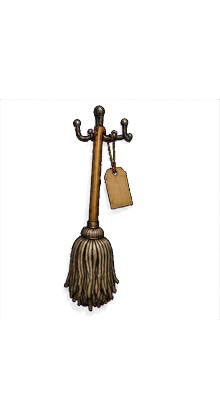
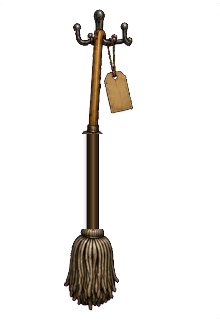
Раунд 9 (без релиза, 2.0.5-pre): 6 замечаний автора по галерее
- Коробка zoom_attic: новый авторский арт box_attic (ракурс сверху-сбоку),
  cutouts/st_box_attic.png, edge-bleed; вайд не тронут
- Швабра перенесена в zoom_closet на крючки (сценарий это предполагал:
  doc_mop_tag уже at:zoom_closet); черенок удлинён x2 (gen_r9_cutouts.py)
- Сачок st_net_on_top +30px вверх (свес на крышке шкафа)
- Магнитная указка уменьшена (1.35) и ПОЛНОСТЬЮ внутри KPI-щита (ночь+день)
- Пар кофемашины сдвинут влево, база над чашкой
- pos_day LED (считыватель/сигнализация) выправлены по дневному фону
- Галерея перегенерена целиком (49 кадров + 5 листов); все гейты DoD PASS

Changed region(s): [[0.2727, 0.0311, 0.6, 0.9627]]

diff --git a/tools/gen_scene.py b/tools/gen_scene.py
@@ -65,9 +65,9 @@ A_hotspots = [
        name="Кодовая тумба", cursor="zoom"),
     HS("hs_kpi_board", [1758, 278, 150, 200], name="KPI-доска", look=True,
        rect_day=[1785, 150, 120, 320]),
-    HS("hs_pointer", [1802, 348, 78, 68], node="take_pointer", name="Магнитная указка",
+    HS("hs_pointer", [1795, 266, 68, 68], node="take_pointer", name="Магнитная указка",
        hide_on=["done:take_pointer"],
-       rect_day=[1814, 274, 78, 68]),
+       rect_day=[1808, 256, 68, 68]),
     # --- правая зона: рассинхрон день/ночь, всюду rect_day ---
     HS("hs_exit_sign", [1504, 130, 100, 58], name="Табличка EXIT", look=True,
        rect_day=[1540, 126, 86, 62]),
@@ -106,11 +106,11 @@ A_cutouts = [
     CO("cutouts/st_ruler_on_desk.png", [1150, 702], 1.68, z=20,
        hide_on=["done:take_ruler"]),
     # указка (диагональная) лежит ВНУТРИ силуэта KPI-доски (ночь/день)
-    # (раунд 7) магнитная указка ВПЛОТНУЮ внутри силуэта KPI-доски
-    # (ночь щит x1758..1908, день x1785..1905) — прилегает к поверхности
-    CO("cutouts/st_pointer_on_board.png", [1716, 336], 1.5, z=20,
+    # (раунд 9) уменьшена (1.5->1.35) и отцентрована в белом поле щита с запасом
+    # от кромок: ночь щит x1755..1898 y150..475, день x1778..1905 y58..510
+    CO("cutouts/st_pointer_on_board.png", [1721, 260], 1.35, z=20,
        hide_on=["done:take_pointer"],
-       pos_day=[1728, 262]),
+       pos_day=[1737, 248]),
     CO("cutouts/st_wheel_wall.png", [1002, 206], 0.52, z=20,
        hide_on=["done:take_wheel"]),
     # открытая решётка накрывает закрытую грилю офиса (x1282..1405 y138..203)
@@ -128,16 +128,18 @@ A_cutouts = [
     CO("cutouts/st_garland_on.png", [360, 150], 1.0, z=30,
        show_on=["garland_on"], glow=True,
        img_day="cutouts/st_garland_on_day.png"),
+    # (раунд 9) pos_day LED выправлены по дневному фону: индикатор считывателя
+    # ~(1663,365), плата сигнализации на синей двери x1735..1770 y378..425
     CO("cutouts/st_led_alarm_on.png", [1673, 382], 0.34, z=25,
-       hide_on=["alarm_off"], pos_day=[1731, 328]),
+       hide_on=["alarm_off"], pos_day=[1739, 378]),
     CO("cutouts/st_led_alarm_off.png", [1673, 382], 0.34, z=25,
-       show_on=["alarm_off"], pos_day=[1731, 328]),
+       show_on=["alarm_off"], pos_day=[1739, 378]),
     CO("cutouts/st_led_reader_off.png", [1568, 325], 0.42, z=25,
-       hide_on=["power_on"], pos_day=[1648, 330]),
+       hide_on=["power_on"], pos_day=[1652, 349]),
     CO("cutouts/st_led_reader_red.png", [1568, 325], 0.42, z=25,
-       show_on=["power_on"], hide_on=["reader_green"], pos_day=[1648, 330]),
+       show_on=["power_on"], hide_on=["reader_green"], pos_day=[1652, 349]),
     CO("cutouts/st_led_reader_green.png", [1568, 325], 0.42, z=25,
-       show_on=["reader_green"], pos_day=[1648, 330]),
+       show_on=["reader_green"], pos_day=[1652, 349]),
     # открытая дверь щитовой (перспективный кадр автора, ночь): дверь приоткрыта,
     # из щели льётся тёплый свет. Вырезана по контуру двери (край мягкий ~2px,
     # угол настольной лампы вымаскирован), гамма-подъём теней 0.9 под дневной фон.
@@ -156,7 +158,8 @@ A_cutouts = [
     # одному кадру, не суммирует); посажен вплотную над кружкой
     CO("cutouts/st_fish_a.png", [952, 412], 0.36, z=18, idle="fish_wide",
        frames=["cutouts/st_fish_a.png", "cutouts/st_fish_b.png"]),
-    CO("cutouts/st_steam_a.png", [1199, 380], 0.42, z=22, idle="steam",
+    # (раунд 9) пар сдвинут влево — база над чашкой (ночь x~1216 / день x~1233)
+    CO("cutouts/st_steam_a.png", [1186, 378], 0.42, z=22, idle="steam",
        frames=["cutouts/st_steam_a.png", "cutouts/st_steam_b.png",
                "cutouts/st_steam_c.png"], show_on=["sockets_on"]),
 ]
@@ -188,13 +191,12 @@ B_hotspots = [
        name="Коробка (ещё раз)", show_on=["item:relic_fez"], hide_on=["item:crown"]),
     HS("hs_closet", [1310, 190, 285, 690], goto="zoom_closet", name="Шкаф уборщицы",
        cursor="zoom"),
-    HS("hs_net_top", [1398, 138, 122, 120], node="see_net", name="Верх шкафа",
+    HS("hs_net_top", [1398, 108, 122, 120], node="see_net", name="Верх шкафа",
        hide_on=["net_down"]),
     HS("hs_net_floor", [1290, 885, 240, 185], node="take_net", name="Сачок",
        show_on=["net_down"], hide_on=["done:take_net"]),
     HS("hs_vent_util", [1385, 50, 180, 145], name="Вентрешётка", look=True),
-    HS("hs_mop", [1555, 332, 72, 180], node="take_mop", name="Швабра",
-       hide_on=["done:take_mop"], doc_rmb="doc_mop_tag"),
+    # (раунд 9) швабра ПЕРЕНЕСЕНА в zoom_closet (крючки внутри шкафа уборщицы)
     HS("hs_boiler", [1655, 80, 195, 440], node="h_boiler", name="Бойлер"),
     HS("hs_sink", [1600, 590, 255, 175], name="Раковина", look=True),
     HS("hs_sink_valve", [1700, 760, 120, 130], node="h_sink_valve",
@@ -203,8 +205,8 @@ B_hotspots = [
 ]
 B_cutouts = [
     # сачок лежит на КРЫШКЕ шкафа со свесом за передний край
-    # (раунд 8: поднят на ~17px — не «прилипает» к верхнему краю, лежит на крышке)
-    CO("cutouts/st_net_on_top.png", [1360, 133], 0.80, z=20,
+    # (раунд 8: +17px; раунд 9: ещё +30px — низ со свесом на крышке)
+    CO("cutouts/st_net_on_top.png", [1360, 103], 0.80, z=20,
        hide_on=["net_down"]),
     CO("cutouts/st_net_on_floor.png", [1296, 892], 0.86, z=20,
        show_on=["net_down"], hide_on=["done:take_net"]),
@@ -212,9 +214,7 @@ B_cutouts = [
     # (раунд 7) цветокоррекция; (раунд 8) ×1.58 + тёмный бэкинг под грилю
     CO("cutouts/st_vent_open_util.png", [1327, 24], 1.58, z=20,
        show_on=["vents_open"], img_day="cutouts/st_vent_open_util_day.png"),
-    # швабра на крюке-вешалке ПЕРЕНЕСЕНА на деревянную дверцу шкафа уборщицы
-    # (раунд 8: раньше висела в зазоре шкаф/бойлер — на тёмном фоне «парила»)
-    CO("cutouts/st_mop_on_hook.png", [1512, 258], 0.78, z=20, hide_on=["done:take_mop"]),
+    # (раунд 9) катаут швабры st_mop_on_hook ПЕРЕНЕСЁН в zoom_closet (крючки)
     # банка литола СТОИТ на полке, тень-эллипс под ней
     # (раунд 8: опущена ещё на 12px — низ строго на полке ~y527)
     CO("cutouts/st_grease_on_shelf.png", [1134, 452], 0.82, z=20,
@@ -421,25 +421,33 @@ zooms["zoom_workbench"] = {"room": "B", "hotspots": [
 ]}
 
 zooms["zoom_attic"] = {"room": "B", "hotspots": [
-    HS("hs_z_box_shelf", [380, 300, 560, 260], node="box_down",
+    HS("hs_z_box_shelf", [400, 235, 560, 360], node="box_down",
        name="Коробка «НГ-2019»", hide_on=["box_down"]),
     HS("hs_z_tinsel", [890, 400, 200, 640], name="Мишура", look=True),
     HS("hs_z_dust", [300, 320, 700, 200], name="Пыльный след", look=True,
        show_on=["box_down"]),
 ], "cutouts": [
-    # (раунд 7) коробка крупнее и посажена на пыльный след полки (промер зума)
-    CO("cutouts/st_box_on_floor.png", [402, 302], 1.3, z=20,
+    # (раунд 9) новый авторский арт коробки «НГ-2019» с мишурой (ракурс
+    # сверху-сбоку — под антресоль). Полка: задний край y~400, передний ~600
+    CO("cutouts/st_box_attic.png", [378, 238], 0.62, z=20,
        hide_on=["box_down"]),
 ]}
 
 zooms["zoom_closet"] = {"room": "B", "hotspots": [
     HS("hs_z_medkit", [1128, 88, 186, 388], node="take_validol", name="Аптечка",
        hide_on=["done:take_validol"]),
+    # (раунд 9) швабра висит на крючках ВНУТРИ шкафа — зона взятия здесь
+    HS("hs_mop", [845, 120, 140, 410], node="take_mop", name="Швабра",
+       hide_on=["done:take_mop"], doc_rmb="doc_mop_tag"),
     HS("hs_z_hooks", [640, 105, 380, 140], name="Крючки", look=True),
     HS("hs_z_rag", [520, 385, 360, 140], name="Тряпка", look=True),
     HS("hs_z_bottles", [780, 530, 240, 480], name="Бутыли", look=True),
     HS("hs_z_bucket2", [510, 550, 300, 460], name="Ведро", look=True),
-], "cutouts": []}
+], "cutouts": [
+    # (раунд 9) швабра (черенок удлинён ~x2, gen_r9_cutouts) на среднем крючке
+    CO("cutouts/st_mop_on_hook.png", [763, 50], 1.5, z=20,
+       hide_on=["done:take_mop"]),
+]}
 
 def _hs_area(h):
     r = h["rect"]; return r[2] * r[3]

diff --git a/tools/gen_r9_cutouts.py b/tools/gen_r9_cutouts.py
@@ -1,0 +1,82 @@
+#!/usr/bin/env python3
+# -*- coding: utf-8 -*-
+"""Раунд 9: катауты из авторского арта.
+1) Коробка «НГ-2019» (антресоль): кроп авторского box_attic по альфе +
+   edge-bleed (заливка цвета в прозрачные соседи, чтобы при масштабировании
+   не тянулся красный мат подложки) -> cutouts/st_box_attic.png.
+2) Швабра: удлинение черенка ~x2 вставкой чистого сегмента черенка между
+   бирко-ручкой и щёткой (щётку и крюк не искажаем) -> cutouts/st_mop_on_hook.png.
+Оригиналы уже в карантине: work/orig_box_attic_v2.png, work/orig_st_mop_on_hook_v0.png.
+"""
+import numpy as np
+from PIL import Image
+import os
+
+CUT = "assets/gfx/cutouts"
+
+def edge_bleed(im, iters=6):
+    """RGB прозрачных пикселей = среднее непрозрачных соседей (итеративно).
+    Убирает цветовую бахрому по краю при билинейном масштабировании."""
+    a = np.array(im).astype(np.float32)
+    rgb = a[:, :, :3]; al = a[:, :, 3]
+    known = al > 8
+    for _ in range(iters):
+        unk = ~known
+        if not unk.any():
+            break
+        # суммируем соседей по 4 сторонам
+        s = np.zeros_like(rgb); c = np.zeros(al.shape, np.float32)
+        for dy, dx in ((1,0),(-1,0),(0,1),(0,-1)):
+            k = np.roll(known, (dy, dx), (0,1))
+            v = np.roll(rgb, (dy, dx), (0,1))
+            m = k & unk
+            s[m] += v[m]; c[m] += 1
+        fill = c > 0
+        rgb[fill] = s[fill] / c[fill][:, None]
+        known = known | fill
+    a[:, :, :3] = rgb
+    return Image.fromarray(a.astype(np.uint8), "RGBA")
+
+def gen_box():
+    im = Image.open("work/orig_box_attic_v2.png").convert("RGBA")
+    a = np.array(im); al = a[:, :, 3]
+    ys, xs = np.where(al > 16)
+    x0, x1, y0, y1 = xs.min(), xs.max(), ys.min(), ys.max()
+    m = 3
+    x0 = max(0, x0-m); y0 = max(0, y0-m)
+    x1 = min(im.width-1, x1+m); y1 = min(im.height-1, y1+m)
+    crop = im.crop((x0, y0, x1+1, y1+1))
+    crop = edge_bleed(crop, iters=6)
+    crop.save(os.path.join(CUT, "st_box_attic.png"))
+    print("st_box_attic.png", crop.size)
+
+def gen_mop():
+    im = Image.open("work/orig_st_mop_on_hook_v0.png").convert("RGBA")
+    W, H = im.size                       # 220x420
+    INSERT = 95                          # удлинение черенка (~x2 видимой ручки)
+    SEAM = 229                           # низ ручки/бирки, верх щётки ~230
+    # экструзия ОДНОЙ чистой строки черенка (y226, ниже бирки) — гладко, без
+    # бандинга (тайлинг многострочного среза размножал вертикальную тень стержня)
+    row = im.crop((0, 226, W, 227))      # 1 строка чистого стержня
+    upper = im.crop((0, 0, W, SEAM+1))   # крюк+ручка+бирка
+    head = im.crop((0, 230, W, H))       # щётка (+пустой низ)
+    new = Image.new("RGBA", (W, H+INSERT), (0,0,0,0))
+    new.paste(upper, (0, 0), upper)
+    end = SEAM+1+INSERT
+    for y in range(SEAM+1, end):
+        new.paste(row, (0, y), row)
+    new.paste(head, (0, end), head)
+    # обрезка пустых вертикальных полей (чтобы pos в сцене был положительным)
+    aa = np.array(new)[:, :, 3]
+    ys, xs = np.where(aa > 8)
+    top = max(0, ys.min()-3); bot = min(new.height, ys.max()+4)
+    new = new.crop((0, top, new.width, bot))
+    new.save(os.path.join(CUT, "st_mop_on_hook.png"))
+    # промер новой геометрии
+    a = np.array(new)[:, :, 3]
+    ys, xs = np.where(a > 16)
+    print("st_mop_on_hook.png", new.size, "content y%d..%d" % (ys.min(), ys.max()))
+
+if __name__ == "__main__":
+    gen_box()
+    gen_mop()

diff --git a/tools/gen_gallery.py b/tools/gen_gallery.py
@@ -181,7 +181,7 @@ shot("dver_schitovoy_noch")
 node("take_pointer"); dismiss()
 to_room("B")
 shot("komnata_B_noch")
-read_hs("hs_mop", "B", "doc_mop_tag", "doc_birka_shvabra", btn=2)
+read_hs("hs_mop", "zoom_closet", "doc_mop_tag", "doc_birka_shvabra", btn=2)  # (р9) швабра в зуме шкафа
 node("see_net"); dismiss()
 node("push_net"); dismiss()
 add(op="assert_flag", f="vents_open")

diff --git a/docs/QA_JOURNAL.md b/docs/QA_JOURNAL.md
@@ -153,3 +153,26 @@ CLUE AUDIT PASS · FUZZ 3×25000 PASS · verify-листы OK · ap_smoke 1536×
 (маджента 18 скринов, WCAG ≥7:1, яркость A 47% / B 13%, силуэты 0 слабых) /
 FUZZ 3×25000 / trace+clue / letterbox-смок 1536×864 — **ВСЕ PASS**.
 Галерея work/gallery/ перегенерена целиком (49 кадров + 5 контактных листов).
+
+
+## Раунд 9 (без релиза — авторская ревизия галереи work/gallery/, 2.0.5-pre)
+Метод: осмотр кадра → промеры numpy (дифф рендер-минус-фон) → правка
+генератора → контрольный рендер. Промеры фонов 1920×1080 = канвас (пиксель
+фона == позиция катаута).
+
+| # | Замечание автора | Статус |
+|---|---|---|
+| 1 | Коробка в zoom_attic — старый арт, неверная перспектива (фронт на top-down полке) | ✔ Новый АВТОРСКИЙ арт box_attic.png (коробка «НГ-2019» с мишурой, ракурс сверху-сбоку — под антресоль). Кроп по альфе + edge-bleed (в прозрачном фоне был красный мат — в игре не виден, но bleed убирает бахрому при масштабе) → cutouts/st_box_attic.png (871×563). Посажена на полку с пыльным следом: pos [378,238] scale 0.62 (полка задний край y~400, передний ~600). hs_z_box_shelf синхронно. Оригинал → work/orig_box_attic_v2.png; исходник из корня монтирования удалён. Вайд B (st_box_on_floor на полу, фронт) НЕ тронут |
+| 2 | Швабра снаружи закрытого шкафа — «я думал по сценарию она в шкафу?» | ✔ **Сценарий ПОДТВЕРДИЛ:** узел take_mop (D6, room B, pickup, needs utility_open) структурно идентичен take_validol, который УЖЕ в zoom_closet; а doc_mop_tag (бирка, ПКМ) с р.4 привязан `at: zoom_closet`. В zoom_closet уже есть z_hooks «Крючки». Перенёс: катаут швабры на СРЕДНИЙ крючок задней стенки шкафа (pos [763,50] scale 1.5, крюк-вешалка катаута совмещён с настенным, щётка над полкой), зона hs_mop → в zoom_closet, с вайда B швабру и зону УБРАЛ. Автонавигация солвера/автоплея по карте site автоматически ведёт take_mop через зум; галерея (показ бирки, кадр 13) поправлена на view=zoom_closet. Гаунтлет PASS |
+| — | Швабра «короткая как пипидастр» | ✔ Черенок удлинён программно ×2 (экструзия одной чистой строки стержня между биркой и щёткой — крюк и щётку не искажает): длина видимой ручки ~90px→~185px (катаут 220×420→220×322 после обрезки полей). Оригинал → work/orig_st_mop_on_hook_v0.png (tools/gen_r9_cutouts.py) |
+| 3 | Сачок (st_net_on_top, B): поднять ещё ~1 см | ✔ pos_y 133→103 (+30px вверх); низ y~215 у кромки крышки шкафа (промер: кромка y~196 ночь=день) — свес ~19px. hs_net_top синхронно (138→108). Ночь+день (B без рассинхрона) |
+| 4 | Магнитная указка вылезает за силуэт KPI-щита | ✔ Промер щита: ночь x1755..1898 y150..475, день x1778..1905 y58..510. Указка (диагональ 40×41 в холсте) была ниже центра — нижний кончик у кромки/лотка. scale 1.5→1.35, отцентрована в белом поле: ночь pos [1721,260] (катаут x1799..1853 y272..328), день pos_day [1737,248] (x1815..1869 y260..316) — ПОЛНОСТЬЮ внутри с запасом ≥35px от кромок. hs_pointer/rect_day синхронно |
+| 5 | Пар кофемашины правее чашки — сдвинуть влево, база над чашкой | ✔ Промер чашки: ночь центр x~1216, день x~1233, верх обода y~445. Пар pos [1199,380]→[1186,378]: плюмаж всех 3 фаз теперь над кружкой (x~1204..1229), не «правее». Ночь=день (чашка почти на месте) |
+| 6 | LED-огоньки (reader off/red/green, alarm on/off) днём уплыли | ✔ Промер дневного фона: индикатор считывателя (1663,365), плата сигнализации на синей двери x1735..1770 y378..425. Дрейф: reader-LED был на ~19px выше индикатора, alarm-LED на ~50px выше платы (парил на пустой двери). Выправлены pos_day: reader [1648,330]→[1652,349] (центр на индикаторе 1662,363); alarm [1731,328]→[1739,378] (на плите, 1748,388). Ночь (pos) НЕ тронута — проверено кадром (ночной alarm на коробке-сирене x1690..1735). Примечание автору: сам катаут st_led_reader_red по ЦВЕТУ зеленоватый (пред-существующая особенность ассета, не в scope р9 о позициях) |
+
+Гейты р.9: STATE CORE / GATE1 (обяз. 34, доков 17) / gen_scene+gen_texts (реплик
+321, мат 0%) / GATE2 / selftest (52 шага) / автоплей-гаунтлет (304 op, 69 шагов —
+взятие швабры через zoom_closet) / PIXEL GATES (маджента 18, контраст, яркость
+A47%/B13%, силуэты 0) / FUZZ 3×25000 / trace(42)+clue / verify-листы / смок
+letterbox 1536×864 — **ВСЕ PASS**. Галерея work/gallery/ перегенерена целиком
+(49 кадров + 5 контактных листов).

diff --git a/docs/BUILDLOG.md b/docs/BUILDLOG.md
@@ -240,3 +240,13 @@ PIXEL GATES, FUZZ 3×25000, CLUE AUDIT, verify-листы, смок 1536×864).
 бэкинг под грилю, gen_vents_r7); дневная гирлянда усилена (видна в масштабе комнаты);
 пар кофемашины посажен вплотную над кружкой (один анимируемый катаут, не три).
 Все гейты DoD PASS; галерея work/gallery/ перегенерена целиком (49 кадров + 5 листов).
+
+### Раунд 9 (2.0.5-pre, без релиза) — правки 6 замечаний по галерее
+Правки: (1) новый авторский арт коробки box_attic → cutouts/st_box_attic.png в
+zoom_attic (ракурс сверху-сбоку, edge-bleed; вайд не тронут); (2) швабра
+перенесена в zoom_closet на крючки (сценарий это и предполагал: doc_mop_tag уже
+`at: zoom_closet`), черенок удлинён ×2 (tools/gen_r9_cutouts.py); (3) сачок +30px
+вверх; (4) магнитная указка уменьшена (1.35) и отцентрована ПОЛНОСТЬЮ внутри
+KPI-щита (ночь+день); (5) пар сдвинут влево, база над чашкой; (6) pos_day LED
+(считыватель/сигнализация) выправлены по дневному фону, ночь не тронута.
+Все гейты DoD PASS; галерея work/gallery/ перегенерена целиком (49 кадров + 5 листов).
